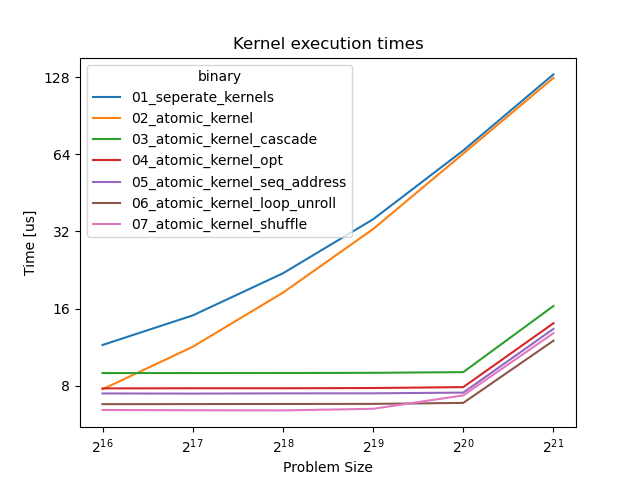
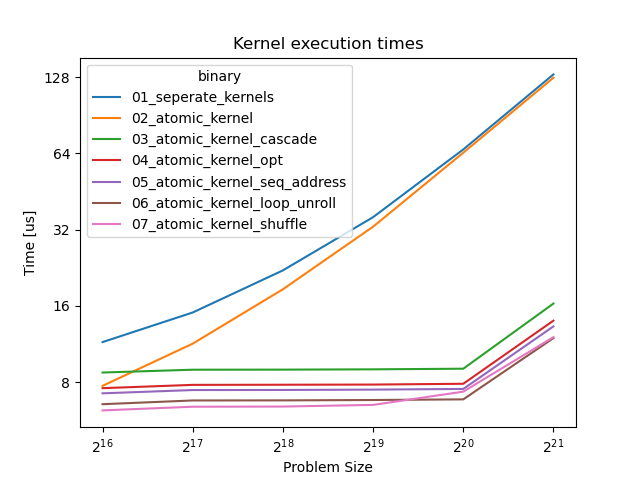
Measure cascading

diff --git a/plots/perf.py b/plots/perf.py
@@ -192,53 +192,40 @@ def reduction():
     ]
     kernel_name = "Sum"
 
-    # Profile kernels
+    # Compare Cascade
     d = []
-    for binary in binaries:
-        for n in range(16, 22):
-            problem_size = 2**n
-            report = NvProfReport(binary, [str(problem_size)])
-
-            # Reduction using seperate kernels runs in multiple iterations
-            if os.path.basename(binary) == "01_seperate_kernels":
-                iter = math.ceil(math.log(problem_size, 1024))
-            else:
-                iter = 1
-
+    binary = binaries[2]
+    iter = 1
+    for n in range(16, 22):
+        problem_size = 2**n
+        for c in range(1, 11):
+            cascade_size = 2**c
+            report = NvProfReport(binary, [str(problem_size), str(cascade_size)])
             d.append(
                 {
                     "binary": os.path.basename(binary),
                     "n": problem_size,
+                    "c": cascade_size,
                     "exec_time": report.get_kernel_execution_time(kernel_name) * iter,
                     "launch_time": report.get_kernel_launch_time() * iter,
                 }
             )
     df = pd.DataFrame(d)
+    df.to_csv(
+        os.path.join(plot_dir, "04_reduction", "kernel_cascade_execution_times.csv")
+    )
 
-    # Plot kernel execution times
-    fig = df.pivot(index="n", columns="binary", values="exec_time").plot().get_figure()
+    # Plot kernel cascade execution times
+    fig = df.pivot(index="n", columns="c", values="exec_time").plot().get_figure()
     fig.gca().set_title("Kernel execution times")
     fig.gca().set_ylabel("Time [us]")
     fig.gca().set_yscale("log", base=2)
     fig.gca().yaxis.set_major_formatter(ticker.FormatStrFormatter("%d"))
     fig.gca().set_xlabel("Problem Size")
     fig.gca().set_xscale("log", base=2)
-    plot_path = os.path.join(plot_dir, "04_reduction", "kernel_execution_time.png")
-    os.makedirs(os.path.dirname(plot_path), exist_ok=True)
-    fig.savefig(plot_path)
-
-    # Plot execution time composition
-    fig = (
-        df[df["n"] == 2**21]
-        .set_index("binary")[["launch_time", "exec_time"]]
-        .plot(kind="bar", stacked=True, figsize=(20, 5))
-        .get_figure()
+    plot_path = os.path.join(
+        plot_dir, "04_reduction", "kernel_cascade_execution_time.png"
     )
-    fig.gca().set_title("Execution time composition")
-    fig.gca().set_ylabel("Time [us]")
-    fig.gca().set_xticklabels(fig.gca().get_xticklabels(), rotation=0)
-    fig.gca().yaxis.set_major_formatter(ticker.FormatStrFormatter("%d"))
-    plot_path = os.path.join(plot_dir, "04_reduction", "execution_time_composition.png")
     os.makedirs(os.path.dirname(plot_path), exist_ok=True)
     fig.savefig(plot_path)
 
